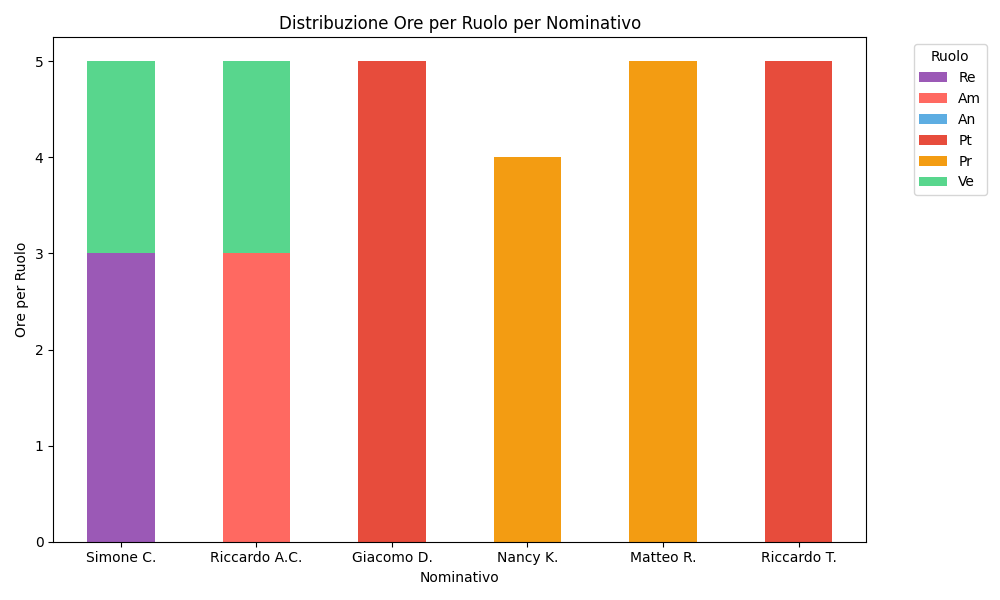
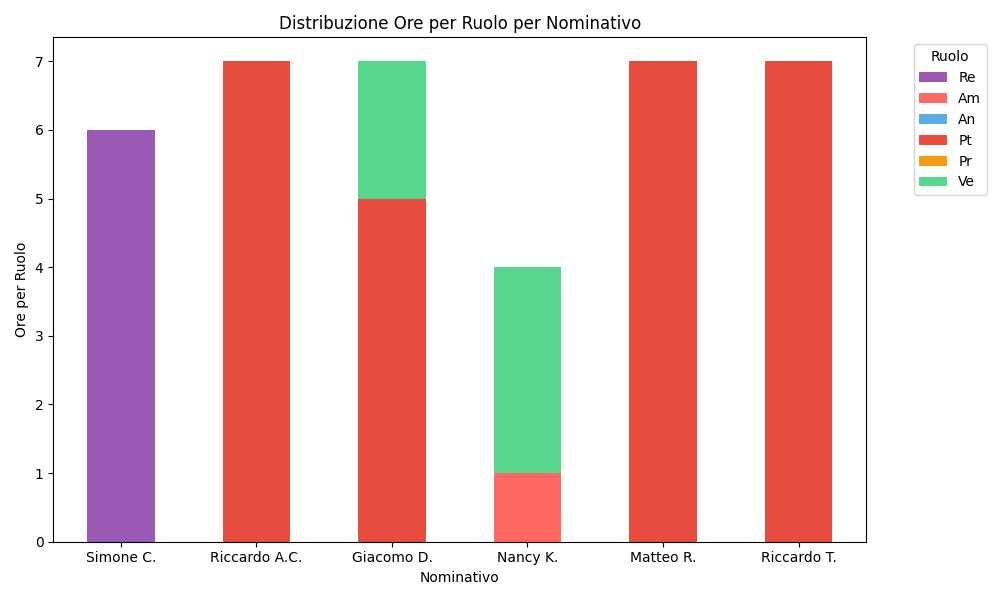
234 PdP update fine sprint 9 (#242)

diff --git a/src/3_PB/PianoDiProgetto/init_preventivo.py b/src/3_PB/PianoDiProgetto/init_preventivo.py
@@ -1,4 +1,11 @@
 # Script da eseguire prima di creare i preventivi
+
+# to install:
+# 1. Collocatevi nella cartella di questo script python con il terminale
+# 2. Comando: python3 -m venv ./venv
+# 3. Comando: source ./venv/bin/activate
+# 4. Comando: pip install -r requirements.txt
+
 # Per eseguirlo bisogna passare come argomento il numero dello sprint attuale, creerà i csv per i 2 sprint successivi
 
 # python3 init_preventivo.py *numero_sprint_attuale*

diff --git a/src/3_PB/PianoDiProgetto/timeresource_sheets_downloader.py b/src/3_PB/PianoDiProgetto/timeresource_sheets_downloader.py
@@ -94,7 +94,7 @@ non_empty_records = non_empty_records.drop(columns=["Costo"])
 # fixing the restart of the year
 non_empty_records.loc[non_empty_records["Week"] < 46, "Week"] += 52
 # fixing frame numbers because of the 4 week pause
-non_empty_records.loc[non_empty_records["Week"] > 56, "Week"] -= 3
+non_empty_records.loc[non_empty_records["Week"] > 56, "Week"] -= 4
 
 # sprint dictionary
 sprints = {}
